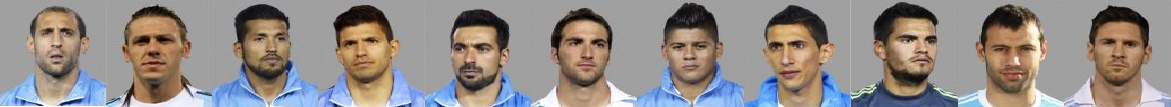
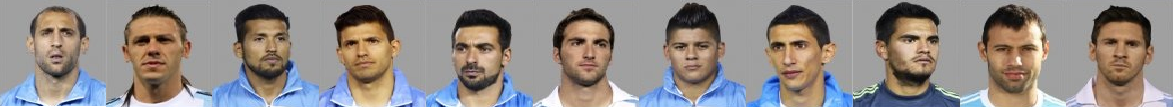
ultiams cosas

diff --git a/index.html b/index.html
@@ -17,15 +17,17 @@
   <meta property="og:site_name" content="Versión Seleccion Argentina del juego 2048"/>
   <meta property="og:description" content="¡Uní los jugadores hasta llegar al Capitan!"/>
   <meta property="og:image" content="http://mgarciaisaia.github.io/2048dbz/meta/og_image.png"/>
+
 </head>
 <body>
   <div id="fb-root"></div>
   <div class="container">
     <div class="header">
       <div class="heading">
-        <h2 class="title">2048 Seleccion Argentina</h2>
+        <h1 class="title">2048</h1>
+        <h2  class="title">Seleccion Argentina</h2>
         <div class="scores-container">
-          <div class="score-container">0</div>
+
           <div class="best-container">0</div>
         </div>
       </div>
@@ -33,10 +35,9 @@
     </div>
 
     <div class="game-container">
-      <div id="vegeta-scouter">
-        <img src="" >
-        <div id="scouter-deco"><div id="scouter-deco-arrow-left" class="blink">◀</div><div id="scouter-deco-arrow-right" class="blink">▶</div><div id="scouter-deco-arrow-down" class="blink">▼</div><div id="scouter-deco-circle">○</div></div>
-        <div id="scouter-score">0</div>
+      <div id="vegeta-scouter ">
+
+        
       </div>
       <div class="game-message">
         <p></p>

diff --git a/style/main.css b/style/main.css
@@ -28,6 +28,7 @@ html, body {
     position: absolute;
     top: 0px;
     width: 725px;
+
   }
   #scouter-score {
     font-size: 1.2em;
@@ -441,7 +442,7 @@ hr {
   .tile .tile-inner {
     border-radius: 3px;
     background-color: #eee4da;
-    background-image: url(../img/jugadores1.png);
+    background-image: url(../img/jugadores2.png);
     background-repeat: no-repeat;
     background-size: cover;
     text-align: center;
